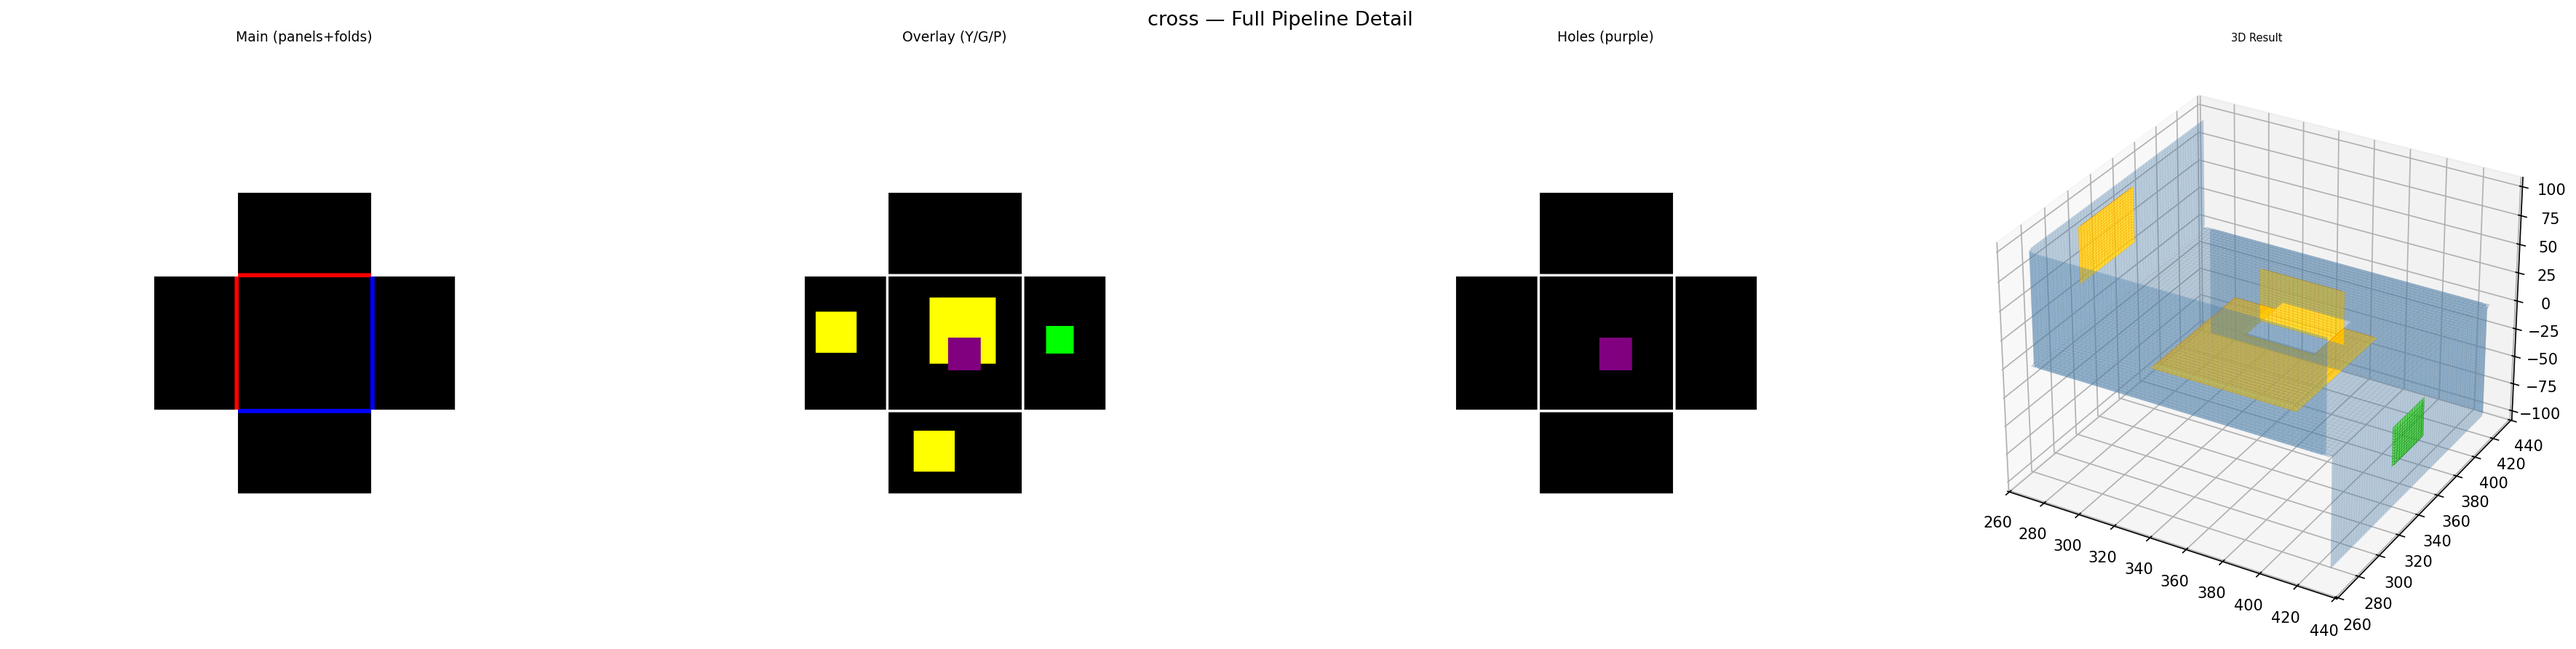
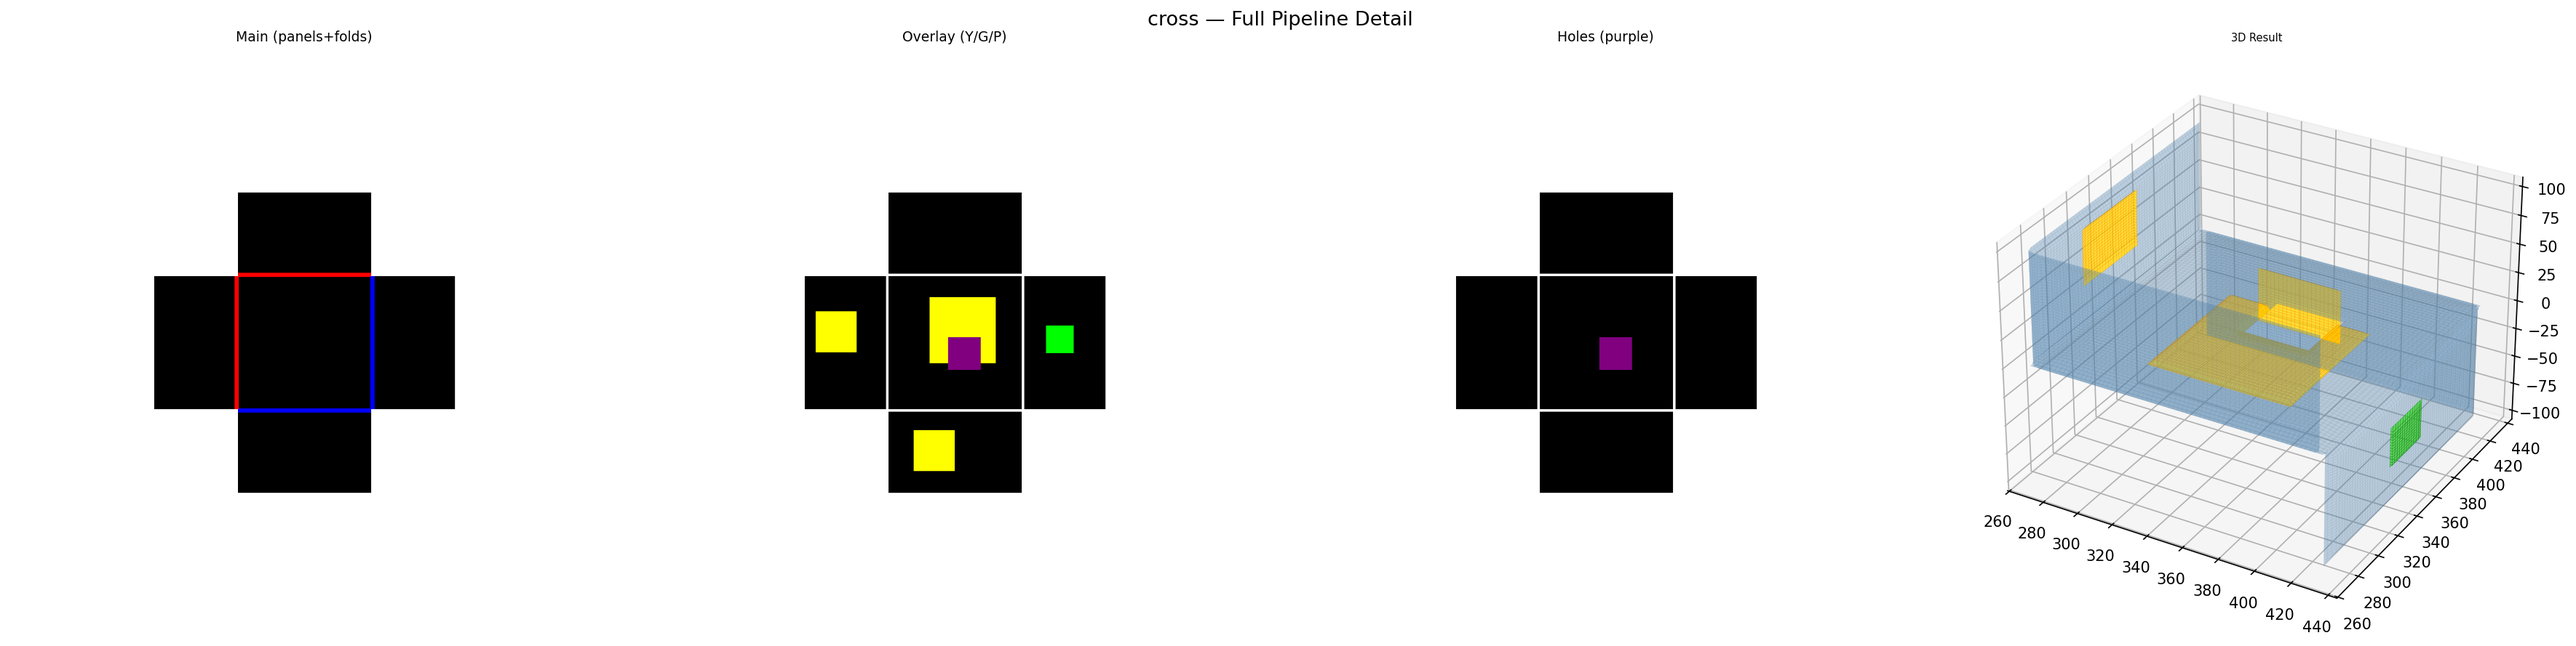
Reactivate heightmap with viridis colormap + boundary buffer — all 11 cases pass

diff --git a/README.md b/README.md
@@ -1,12 +1,13 @@
 # Origami-Gemini-Gen — Full Pipeline Results
-Updated: 2026-04-24 14:09 KST
+Updated: 2026-04-24 14:19 KST
 
 ALL 11 CASES PASSED — Phase 0 through Phase 7, zero degenerate elements.
-Heightmap DEACTIVATED pending redesign.
+Heightmap REACTIVATED — viridis colormap + boundary buffer (10% ramp).
 
 ## Features Tested
 - Non-rectangular blobs (circle, ellipse, polygon, organic)
 - Clean hole boundary snapping
+- Viridis heightmap z-displacement with boundary buffer
 - Full pipeline regression (stitch, bump, cut, export)
 
 ## Overview — All Cases
@@ -54,14 +55,14 @@ Heightmap DEACTIVATED pending redesign.
 
 | Case | Status | Degen | Elems | MinArea |
 |------|--------|-------|-------|---------|
-| l_shape | PASS | 0 | 3838 | 0.002004 |
-| t_shape | PASS | 0 | 7659 | 0.010469 |
+| l_shape | PASS | 0 | 3838 | 0.299041 |
+| t_shape | PASS | 0 | 7659 | 0.314984 |
 | cross | PASS | 0 | 26148 | 0.242367 |
 | u_shape | PASS | 0 | 6981 | 0.041435 |
-| box_unfolding | PASS | 0 | 17352 | 0.000434 |
+| box_unfolding | PASS | 0 | 17352 | 0.000439 |
 | branching_tree | PASS | 0 | 27682 | 0.000143 |
-| h_shape | PASS | 0 | 15223 | 0.004020 |
-| staircase | PASS | 0 | 21528 | 0.001642 |
+| h_shape | PASS | 0 | 15223 | 0.003736 |
+| staircase | PASS | 0 | 21528 | 0.001692 |
 | l_shape_nonrect | PASS | 0 | 5709 | 0.009836 |
-| cross_nonrect | PASS | 0 | 20295 | 0.000343 |
-| t_shape_nonrect | PASS | 0 | 9520 | 0.028825 |
+| cross_nonrect | PASS | 0 | 20295 | 0.000344 |
+| t_shape_nonrect | PASS | 0 | 9520 | 0.221733 |
